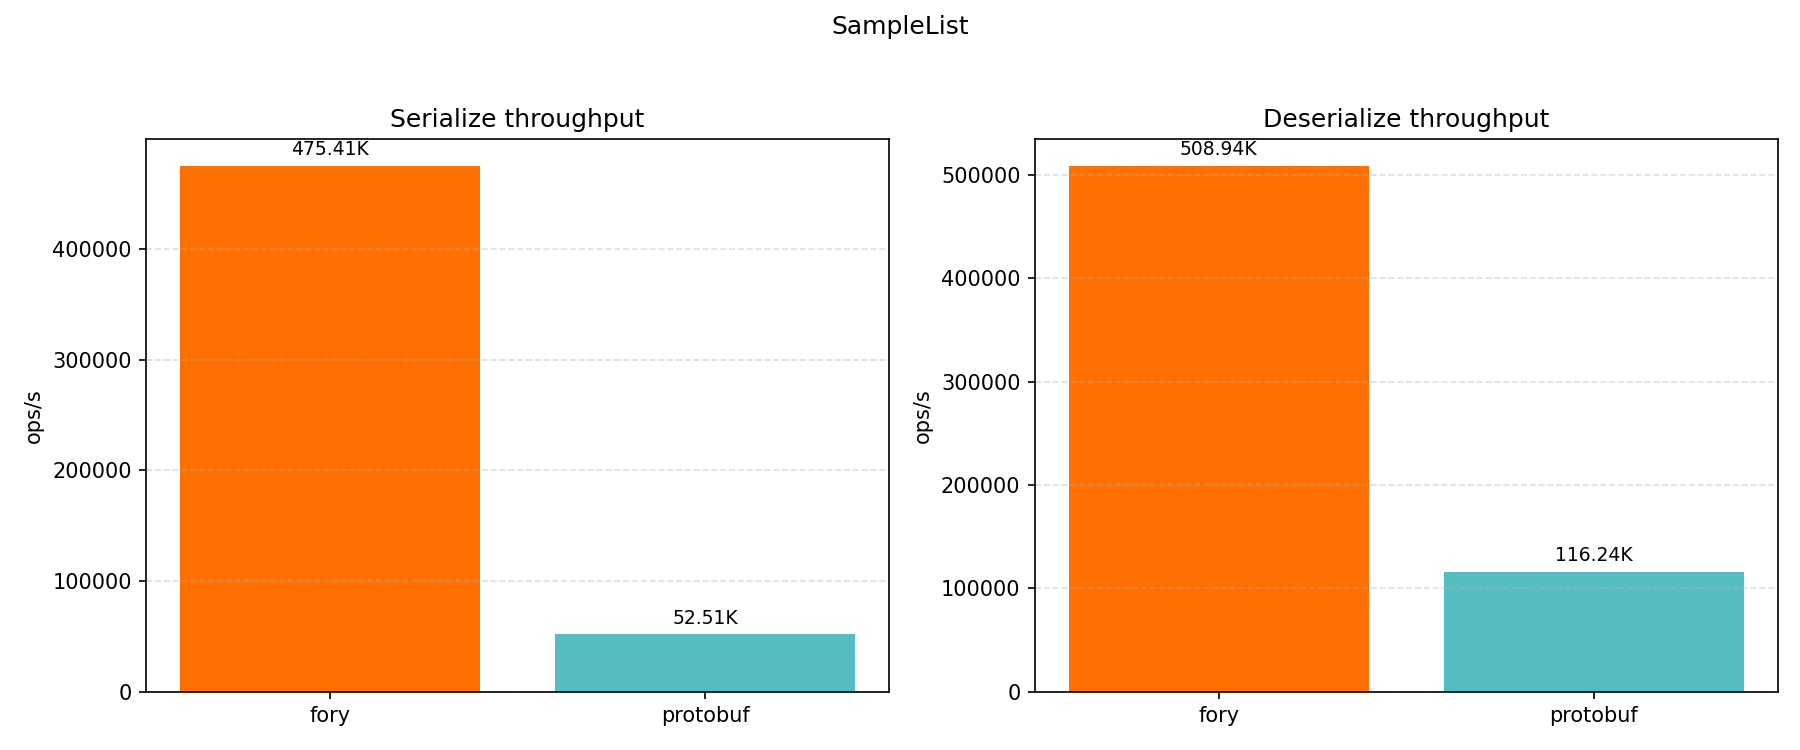
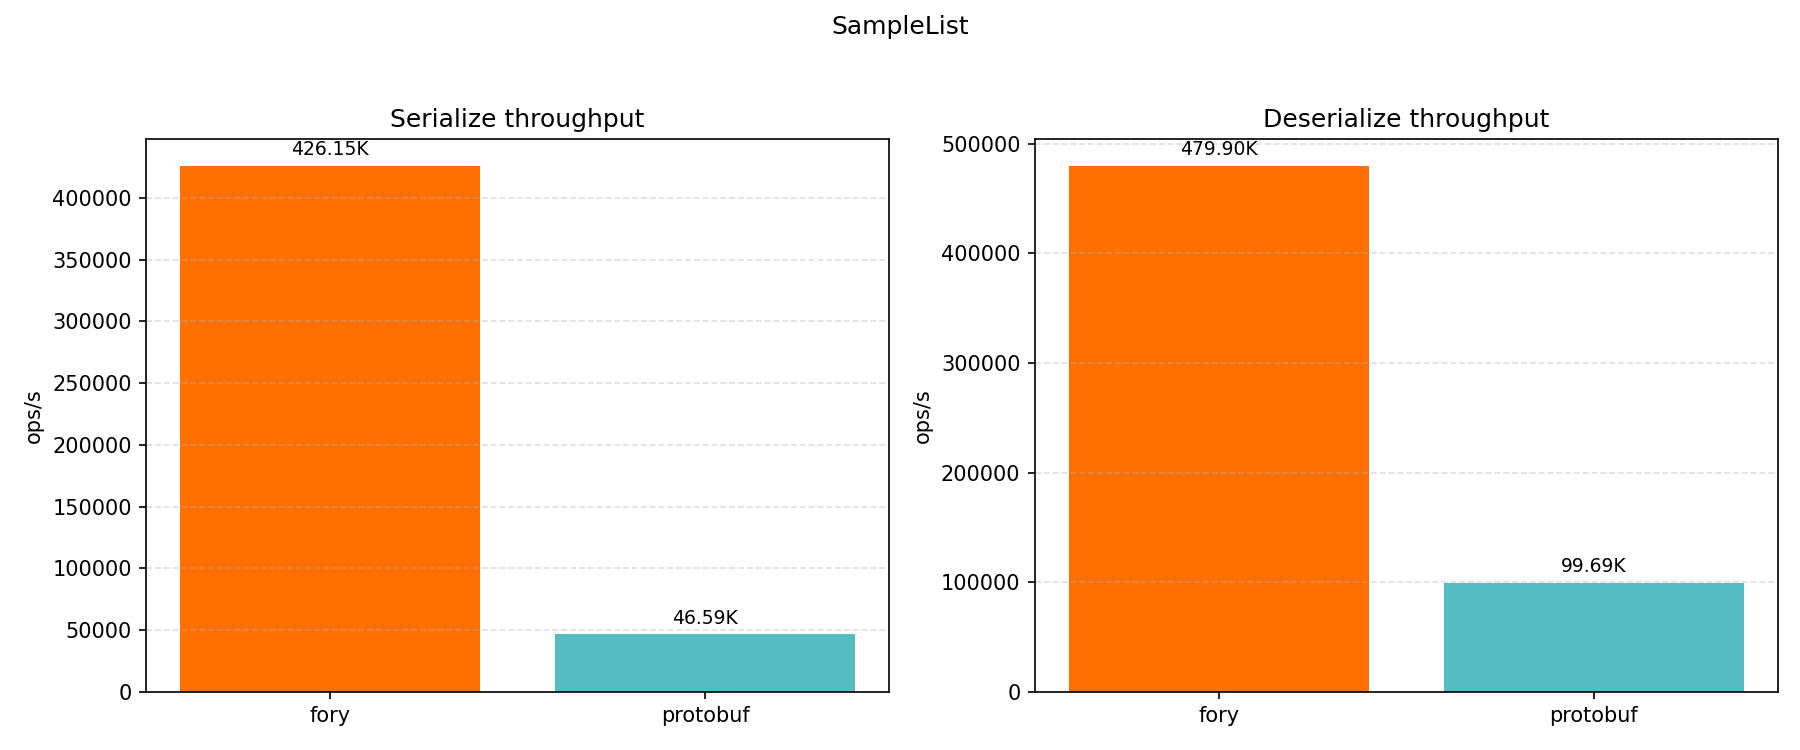
perf(dart): typed-container write fast path with scan elimination (#3609)
## Why?
Writing `List<T>` / `Set<T>` struct fields paid an O(n) scan to detect
heterogeneous types and nulls. Codegen already knows the element type is
concrete and non-nullable — the scan is pure overhead.
## What does this PR do?
- Adds `writeTypedListPayload<T>` / `writeTypedSetPayload<T>` that
resolve `TypeInfo` once and write the header/type-meta without scanning.
- Adds `writeGeneratedDirectListValue<T>` /
`writeGeneratedDirectSetValue<T>` generated-code entry points.
- Adds a codegen predicate (gated on real Dart `DartType` nullability)
that emits the fast path for non-nullable, non-ref, non-dynamic list/set
fields; everything else keeps the existing slow path.
## Related issues
#3558

## AI Contribution Checklist

- [ ] Substantial AI assistance was used in this PR: `yes` / `no`
- [ ] If `yes`, I included a completed [AI Contribution
Checklist](https://github.com/apache/fory/blob/main/AI_POLICY.md#9-contributor-checklist-for-ai-assisted-prs)
in this PR description and the required `AI Usage Disclosure`.
- [ ] If `yes`, my PR description includes the required `ai_review`
summary and screenshot evidence of the final clean AI review results
from both fresh reviewers on the current PR diff or current HEAD after
the latest code changes.
## Does this PR introduce any user-facing change?
                                                                       
- [ ] Does this PR introduce any public API change?
[…]

diff --git a/dart/packages/fory/lib/src/codegen/fory_generator.dart b/dart/packages/fory/lib/src/codegen/fory_generator.dart
@@ -542,6 +542,10 @@ final class ForyGenerator extends Generator {
         output.writeln(
           '      ${_directGeneratedWriteStatement(field, 'value.${field.name}')};',
         );
+      } else if (_usesDirectGeneratedTypedContainerWriteFastPath(field)) {
+        output.writeln(
+          '      ${_directGeneratedTypedContainerWriteStatement(field, index, 'value.${field.name}')};',
+        );
       } else {
         final fieldValue = _generatedFieldInfoWriteValueExpression(
           field,
@@ -1148,6 +1152,44 @@ GeneratedFieldType(
     return field.fieldType.typeId == TypeIds.list ||
         field.fieldType.typeId == TypeIds.set ||
         field.fieldType.typeId == TypeIds.map;
+  }
+
+  bool _usesDirectGeneratedTypedContainerWriteFastPath(
+    _GeneratedFieldSpec field,
+  ) {
+    if (field.fieldType.nullable ||
+        field.fieldType.ref ||
+        field.fieldType.dynamic == true) {
+      return false;
+    }
+    final typeId = field.fieldType.typeId;
+    if (typeId != TypeIds.list && typeId != TypeIds.set) {
+      return false;
+    }
+    final elementFieldType = field.fieldType.arguments.single;
+    if (elementFieldType.ref || elementFieldType.dynamic == true) {
+      return false;
+    }
+    final elementType = (field.type as InterfaceType).typeArguments.single;
+    return !_isNullable(elementType);
+  }
+
+  String _directGeneratedTypedContainerWriteStatement(
+    _GeneratedFieldSpec field,
+    int fieldIndex,
+    String valueExpression,
+  ) {
+    if (_isList(field.type)) {
+      final elementType = (field.type as InterfaceType).typeArguments.single;
+      return 'writeGeneratedDirectListValue<${_typeCodeString(elementType)}>(context, fields[$fieldIndex], $valueExpression)';
+    }
+    if (_isSet(field.type)) {
+      final elementType = (field.type as InterfaceType).typeArguments.single;
+      return 'writeGeneratedDirectSetValue<${_typeCodeString(elementType)}>(context, fields[$fieldIndex], $valueExpression)';
+    }
+    throw StateError(
+      'Unsupported generated typed container write fast path for ${field.name}.',
+    );
   }
 
   List<_DirectGeneratedWriteReservationRun>

diff --git a/dart/packages/fory/lib/src/serializer/collection_serializers.dart b/dart/packages/fory/lib/src/serializer/collection_serializers.dart
@@ -475,6 +475,54 @@ Set<T> readTypedSetPayload<T>(
   return Set<T>.of(readTypedListPayload(context, elementFieldType, convert));
 }
 
+void writeTypedListPayload<T>(
+  WriteContext context,
+  List<T> values,
+  FieldType elementFieldType,
+) {
+  final size = values.length;
+  if (size > context.config.maxCollectionSize) {
+    throw StateError(
+      'Collection size $size exceeds ${context.config.maxCollectionSize}.',
+    );
+  }
+  context.buffer.writeVarUint32(size);
+  if (size == 0) return;
+  final declaredTypeInfo = context.typeResolver.resolveFieldType(elementFieldType);
+  final usesDeclaredType = usesDeclaredTypeInfo(
+    context.config.compatible,
+    elementFieldType,
+    declaredTypeInfo,
+  );
+  context.buffer.writeUint8(
+    _buildCollectionHeader(
+      trackRef: elementFieldType.ref,
+      hasNull: false,
+      usesDeclaredType: usesDeclaredType,
+      sameType: true,
+    ),
+  );
+  if (!usesDeclaredType) {
+    context.writeTypeMetaValue(declaredTypeInfo, values.first as Object);
+  }
+  _writeSameTypeElements(
+    context,
+    values,
+    declaredTypeInfo,
+    usesDeclaredType ? elementFieldType : null,
+    elementFieldType.ref,
+    false,
+  );
+}
+
+void writeTypedSetPayload<T>(
+  WriteContext context,
+  Set<T> values,
+  FieldType elementFieldType,
+) {
+  writeTypedListPayload<T>(context, values.toList(growable: false), elementFieldType);
+}
+
 int _buildCollectionHeader({
   required bool trackRef,
   required bool hasNull,

diff --git a/dart/packages/fory/lib/src/codegen/generated_support.dart b/dart/packages/fory/lib/src/codegen/generated_support.dart
@@ -459,6 +459,48 @@ Object readGeneratedStructDirectValue(
 }
 
 @internal
+void writeGeneratedDirectListValue<T>(
+  WriteContext context,
+  GeneratedStructFieldInfo field,
+  List<T> value,
+) {
+  final fieldType = field.fieldType;
+  if (fieldType.typeId != TypeIds.list ||
+      fieldType.nullable ||
+      fieldType.ref ||
+      fieldType.isDynamic) {
+    throw StateError('Field ${field.name} is not a direct list path.');
+  }
+  final elementFieldType = fieldType.arguments.single;
+  if (elementFieldType.ref || elementFieldType.isDynamic) {
+    throw StateError(
+        'Field ${field.name} element type is not a direct list path.');
+  }
+  writeTypedListPayload<T>(context, value, elementFieldType);
+}
+
+@internal
+void writeGeneratedDirectSetValue<T>(
+  WriteContext context,
+  GeneratedStructFieldInfo field,
+  Set<T> value,
+) {
+  final fieldType = field.fieldType;
+  if (fieldType.typeId != TypeIds.set ||
+      fieldType.nullable ||
+      fieldType.ref ||
+      fieldType.isDynamic) {
+    throw StateError('Field ${field.name} is not a direct set path.');
+  }
+  final elementFieldType = fieldType.arguments.single;
+  if (elementFieldType.ref || elementFieldType.isDynamic) {
+    throw StateError(
+        'Field ${field.name} element type is not a direct set path.');
+  }
+  writeTypedSetPayload<T>(context, value, elementFieldType);
+}
+
+@internal
 @pragma('vm:prefer-inline')
 List<T> readGeneratedDirectListValue<T>(
   ReadContext context,

diff --git a/docs/benchmarks/dart/README.md b/docs/benchmarks/dart/README.md
@@ -4,17 +4,17 @@ This benchmark compares serialization and deserialization throughput for Apache 
 
 ## Hardware and Runtime Info
 
-| Key                   | Value                                                             |
-| --------------------- | ----------------------------------------------------------------- |
-| Timestamp             | 2026-04-23T10:50:07.751368Z                                       |
-| OS                    | Version 15.7.2 (Build 24G325)                                     |
-| Host                  | MacBook-Pro.local                                                 |
-| CPU Cores (Logical)   | 12                                                                |
-| Memory (GB)           | 48.00                                                             |
-| Dart                  | 3.10.7 (stable) (Tue Dec 23 00:01:57 2025 -0800) on "macos_arm64" |
-| Samples per case      | 5                                                                 |
-| Warmup per case (s)   | 1.0                                                               |
-| Duration per case (s) | 1.5                                                               |
+| Key                   | Value                                                            |
+| --------------------- | ---------------------------------------------------------------- |
+| Timestamp             | 2026-04-23T12:21:28Z                                             |
+| OS                    | Version 26.2 (Build 25C56)                                       |
+| Host                  | Macbook-Air.local                                                |
+| CPU Cores (Logical)   | 8                                                                |
+| Memory (GB)           | 8.00                                                             |
+| Dart                  | 3.10.4 (stable) (Tue Dec 9 00:01:55 2025 -0800) on "macos_arm64" |
+| Samples per case      | 5                                                                |
+| Warmup per case (s)   | 1.0                                                              |
+| Duration per case (s) | 1.5                                                              |
 
 ## Throughput Results
 
@@ -22,18 +22,18 @@ This benchmark compares serialization and deserialization throughput for Apache 
 
 | Datatype         | Operation   |  Fory TPS | Protobuf TPS | Fastest      |
 | ---------------- | ----------- | --------: | -----------: | ------------ |
-| Struct           | Serialize   | 5,041,693 |    2,073,839 | fory (2.43x) |
-| Struct           | Deserialize | 6,395,290 |    4,991,881 | fory (1.28x) |
-| Sample           | Serialize   | 1,783,688 |      552,140 | fory (3.23x) |
-| Sample           | Deserialize | 2,124,197 |      934,794 | fory (2.27x) |
-| MediaContent     | Serialize   |   952,498 |      438,419 | fory (2.17x) |
-| MediaContent     | Deserialize | 1,649,039 |      737,340 | fory (2.24x) |
-| StructList       | Serialize   | 1,945,119 |      399,007 | fory (4.87x) |
-| StructList       | Deserialize | 2,119,403 |      764,832 | fory (2.77x) |
-| SampleList       | Serialize   |   475,413 |       52,512 | fory (9.05x) |
-| SampleList       | Deserialize |   508,939 |      116,236 | fory (4.38x) |
-| MediaContentList | Serialize   |   224,925 |       84,860 | fory (2.65x) |
-| MediaContentList | Deserialize |   387,070 |      154,392 | fory (2.51x) |
+| Struct           | Serialize   | 4,696,615 |    1,998,625 | fory (2.35x) |
+| Struct           | Deserialize | 5,815,245 |    4,173,568 | fory (1.39x) |
+| Sample           | Serialize   | 1,744,871 |      481,801 | fory (3.62x) |
+| Sample           | Deserialize | 2,007,877 |      780,317 | fory (2.57x) |
+| MediaContent     | Serialize   |   944,111 |      398,324 | fory (2.37x) |
+| MediaContent     | Deserialize | 1,457,065 |      675,724 | fory (2.16x) |
+| StructList       | Serialize   | 1,981,716 |      351,853 | fory (5.63x) |
+| StructList       | Deserialize | 2,261,436 |      596,027 | fory (3.79x) |
+| SampleList       | Serialize   |   426,153 |       46,590 | fory (9.15x) |
+| SampleList       | Deserialize |   479,900 |       99,694 | fory (4.81x) |
+| MediaContentList | Serialize   |   220,342 |       76,330 | fory (2.89x) |
+| MediaContentList | Deserialize |   341,839 |      131,730 | fory (2.60x) |
 
 ## Serialized Size (bytes)
 
